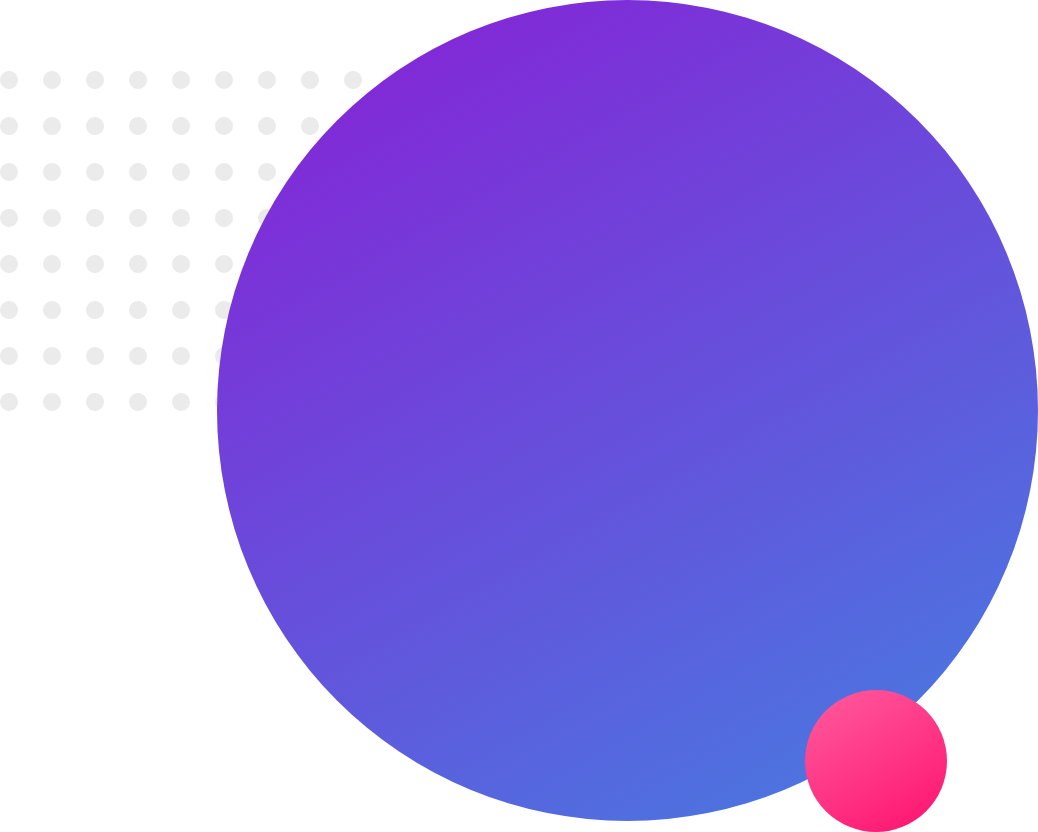
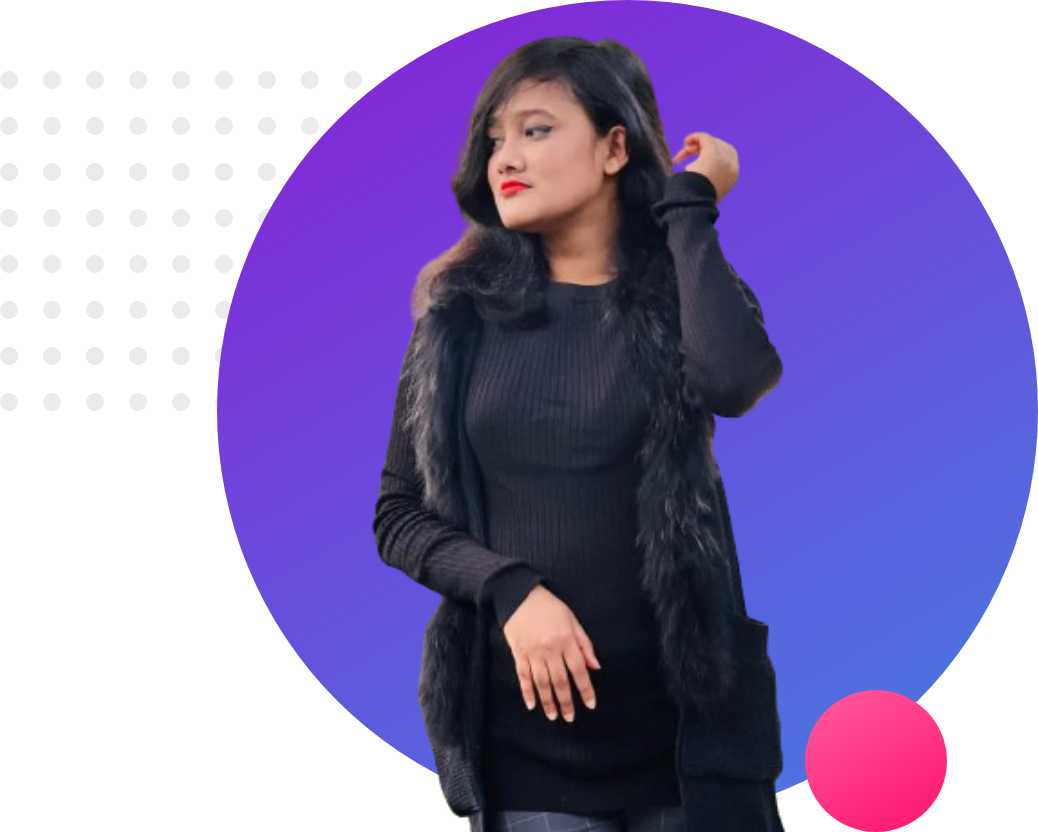
added everything about myself

Changed region(s): [[0.3391, 0.0312, 0.7707, 1.0]]

diff --git a/index.html b/index.html
@@ -1,0 +1,24 @@
+<!DOCTYPE html>
+<html lang="en">
+<head>
+    <meta charset="UTF-8">
+    <meta name="viewport" content="width=device-width, initial-scale=1.0">
+    <title>Moon Web developer</title><link rel="preconnect" href="https://fonts.gstatic.com" crossorigin>
+    <link rel="stylesheet" href="style.css">
+</head>
+<body> 
+    <section class="top-banner">
+        <div class="half-width">
+            <h1>Welcome to</h1>
+            <h1> <span class="name">Moon</span> Websites</h1>
+            <h3>World Class Professional Webdeveloper</h3>
+            <p>I am a freelancer, who likes develop and desing websites in a way that look interesting and beatifull, where the clients feel confortable and they can interact easily.I am Moon,a web designer/developer focused on crafting great web experiences. Designing and Coding have been my passion since the days I started working with computers but I found myself into web design/development for last year. I enjoy creating beautifully designed, intuitive and functional websites.</p>
+        </div>
+        <div class="half-width">
+            <img src="C:\Users\Moon\Downloads\image 12 (1).png"></img>
+        </div>
+
+   </section>
+  
+</body>
+</html>

diff --git a/style.css b/style.css
@@ -1,0 +1,26 @@
+body{
+    font-family: "Poppins", sans-serif;
+    margin: 0;
+}
+h1{
+    font-size: 50px;
+}
+.name{
+    color: orange;
+}
+.half-width{
+    width: 40%;
+    float: left;
+    padding-left: 2%;
+    margin-left: 5%;
+}
+.half-width img{
+    width: 100%;
+    padding-top: 20%;
+}
+.top-banner{
+    background-image: url("c:\Users\Moon\Desktop\top-banner.png");
+}
+section{
+    height: auto;
+}
